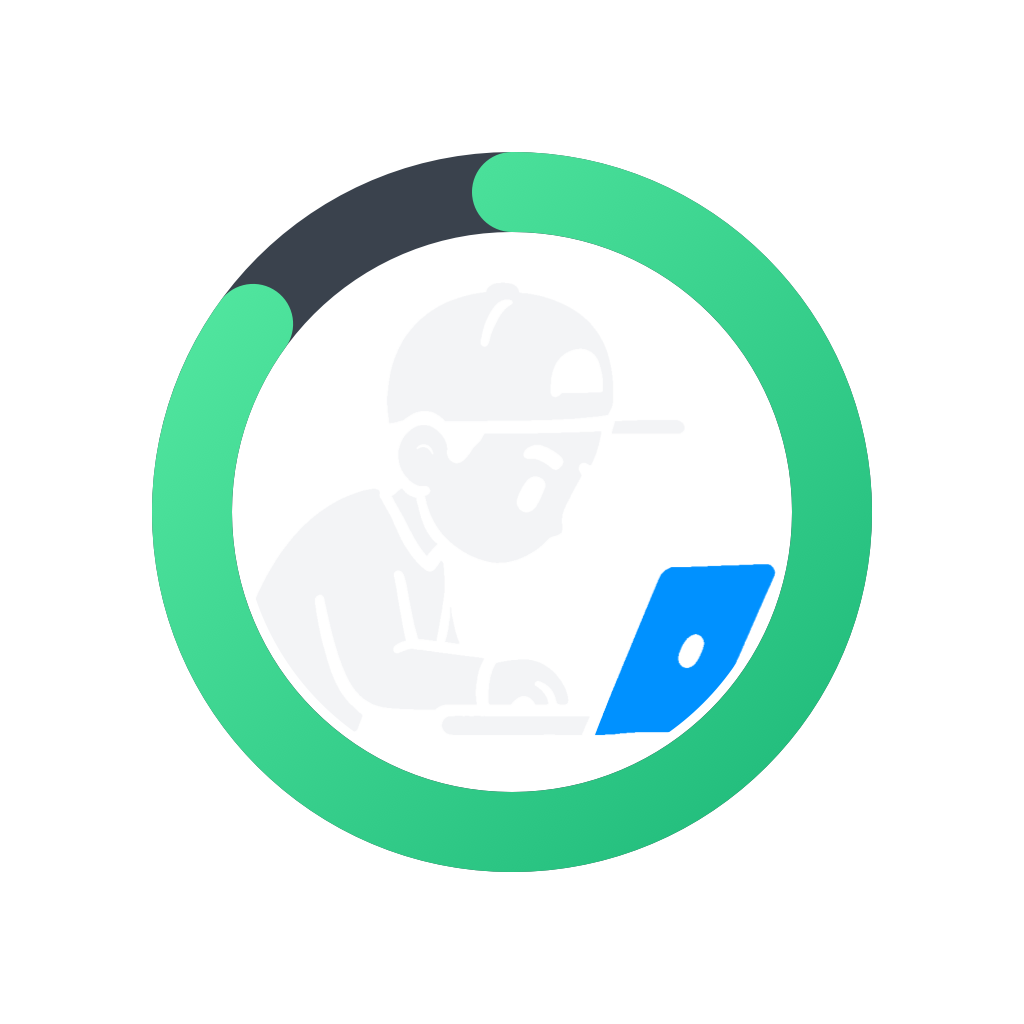
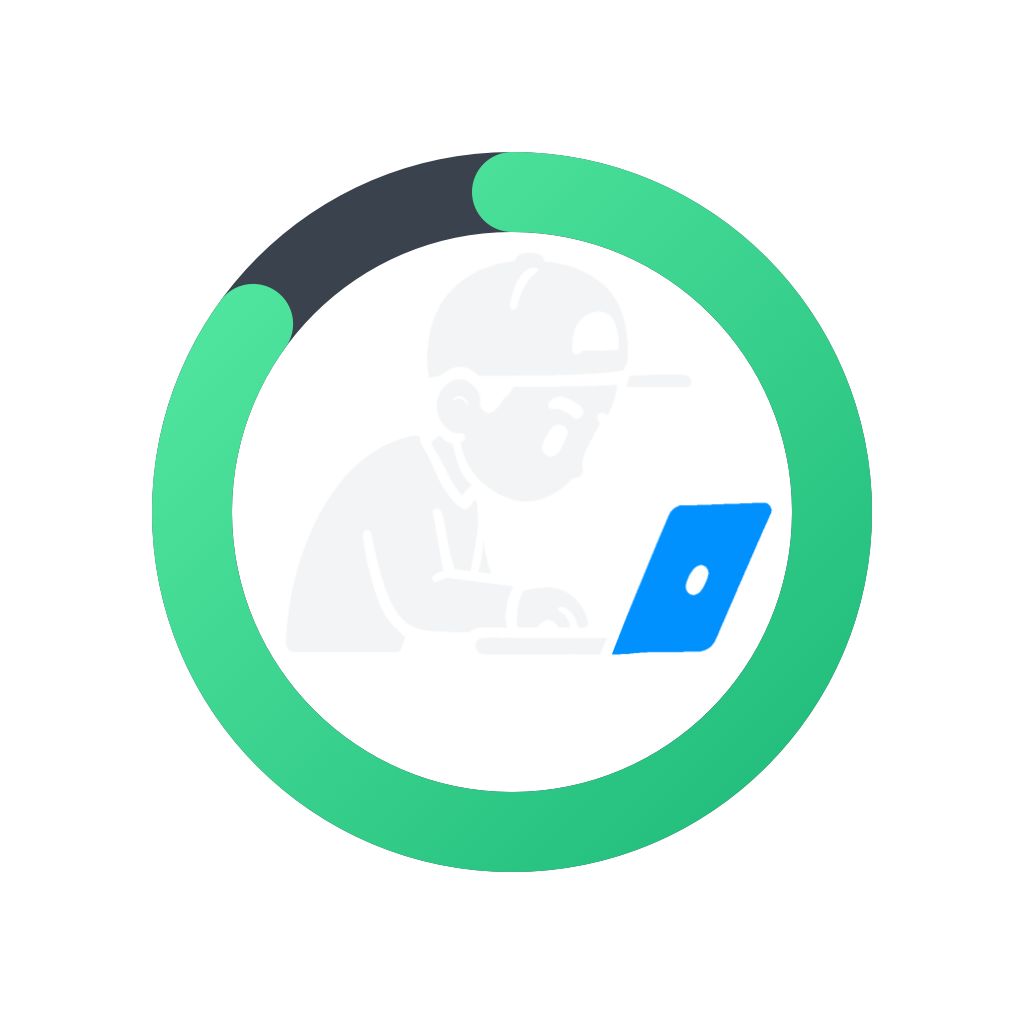
0.3.11: whole ring and whole ziomek
- The menu bar item is variable width instead of square: the square was the bar's
  nominal 22 pt and cut 4 pt off each side of the 30 pt ring
- The figure is scaled to the smallest circle holding all of it (centre 488, 636,
  radius 523 px of the drawing, drawn at 540), so the ring no longer cuts his back
  or the lid; the app icon follows

Changed region(s): [[0.5625, 0.4688, 0.75, 0.7188]]

diff --git a/SwitchWork/StatusIcon.swift b/SwitchWork/StatusIcon.swift
@@ -55,11 +55,12 @@ enum StatusIcon {
         return NSBitmapImageRep(data: data)?.cgImage
     }()
 
-    /// The circle of the drawing that goes inside the ring, in its pixels (y down). The figure
-    /// is larger than the ring's inside, so the bottom of his back and a corner of the lid
-    /// are cut by it — as on the approved preview.
-    static let maskaSrodek = NSPoint(x: 540, y: 525)
-    static let maskaPromien: CGFloat = 480
+    /// The circle of the drawing that goes inside the ring, in its pixels (y down): the
+    /// smallest one holding every white pixel (measured: centre 488, 636, radius 523) plus a
+    /// hair, so the whole figure fits. On 2026-10-24 version 0.3.10 at radius 480
+    /// cut the figure at the sides.
+    static let maskaSrodek = NSPoint(x: 488, y: 636)
+    static let maskaPromien: CGFloat = 540
 
     /// The lid in the drawing's pixels — only this part of the figure turns blue.
     static let klapa: [NSPoint] = [NSPoint(x: 680, y: 940), NSPoint(x: 806, y: 608),

diff --git a/SwitchWork/MenuBarController.swift b/SwitchWork/MenuBarController.swift
@@ -41,7 +41,9 @@ final class MenuBarController: NSObject, NSMenuDelegate {
     override init() {
         super.init()
 
-        let statusItem = NSStatusBar.system.statusItem(withLength: NSStatusItem.squareLength)
+        // Variable, not square: `squareLength` is the bar's nominal 22 pt, and the 30 pt ring
+        // lost 4 pt on each side to it — on 2026-10-24 it cut the figure at the sides.
+        let statusItem = NSStatusBar.system.statusItem(withLength: NSStatusItem.variableLength)
         let menu = NSMenu()
         menu.delegate = self
         statusItem.menu = menu
